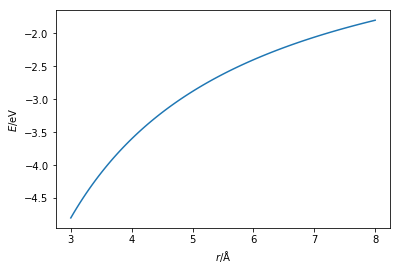
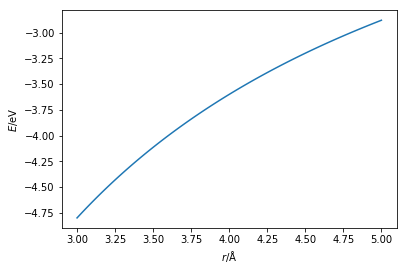
change lengths

diff --git a/_build/classical_methods/van_der_waals.md b/_build/classical_methods/van_der_waals.md
@@ -24,7 +24,7 @@ One mathematical function that is commonly applied is the **Lennard-Jones** pote
 $$ E_{\text{attractive}}(r) = -4\varepsilon\Big(\dfrac{\sigma}{r}\Big)^6\;,$$ 
 
 where $\sigma$ is the distance at which the potential energy between the two particles is zero, $-\varepsilon$ is the potential energy at the equilbrium separation, and $r$ is the distance between the two atoms. 
-The Pauli exclusion principle is repulsive and only present over very short distances modelled as, 
+The Pauli exclusion principle is repulsive and only important over very short distances modelled as, 
 
 $$ E_{\text{repulsive}}(r) = 4\varepsilon\Big(\dfrac{\sigma}{r}\Big)^{12}\;,$$
 
@@ -105,7 +105,7 @@ def lj_energy(r, epsilon, sigma):
     """
     return repulsive_energy(r, epsilon, sigma) + attractive_energy(r, epsilon, sigma)
 
-r = np.linspace(3, 8, 100)
+r = np.linspace(3, 5, 100)
 plt.plot(r, attractive_energy(r, 0.0103, 3.4), label='Attractive')
 plt.plot(r, repulsive_energy(r, 0.0103, 3.4), label='Repulsive')
 plt.plot(r, lj_energy(r, 0.0103, 3.4), label='Lennard-Jones')
@@ -161,7 +161,7 @@ def buckingham_energy(rij, a, b, c):
     """
     return a * np.exp(-b * r) - c / np.power(r, 6)
 
-r = np.linspace(3, 8, 100)
+r = np.linspace(3, 5, 100)
 plt.plot(r, buckingham_energy(r, 10549.313, 3.66, 63.670), label='Buckingham')
 plt.plot(r, lj_energy(r, 0.0103, 3.4), label='Lennard-Jones')
 plt.xlabel(r'$r$/Å')
@@ -177,7 +177,7 @@ plt.show()
 
 
 
-There is a small but clear difference between the two potential energy functions; this may be due to the different potential model or due to the [parameterisation](http://pythoninchemistry.org/sim_and_scat/parameterisation/intro) of that model.
+There is a small but clear difference between the two potential energy functions; this is be due to the different potential model and the [parameterisation](http://pythoninchemistry.org/sim_and_scat/parameterisation/intro) of that model.
 
 ## Important
 

diff --git a/_build/classical_methods/potential_models.md b/_build/classical_methods/potential_models.md
@@ -4,8 +4,8 @@ redirect_from:
 interact_link: content/classical_methods/potential_models.ipynb
 title: 'Potential models'
 prev_page:
-  url: /classical_methods/van_der_waals
-  title: 'The van der Waals interaction'
+  url: /classical_methods/coulomb
+  title: 'Charged interactions'
 next_page:
   url: /parameterisation/intro
   title: 'Parameterisation'

diff --git a/_build/classical_methods/coulomb.md b/_build/classical_methods/coulomb.md
@@ -51,7 +51,7 @@ def coulomb_energy(qi, qj, rij):
     """
     return (qi * qj * e ** 2) / (4 * np.pi * epsilon_0 * r * 1e-10) / 1.602e-19
 
-r = np.linspace(3, 8, 100)
+r = np.linspace(3, 5, 100)
 plt.plot(r, coulomb_energy(1, -1, r))
 plt.xlabel(r'$r$/Å')
 plt.ylabel(r'$E$/eV')
